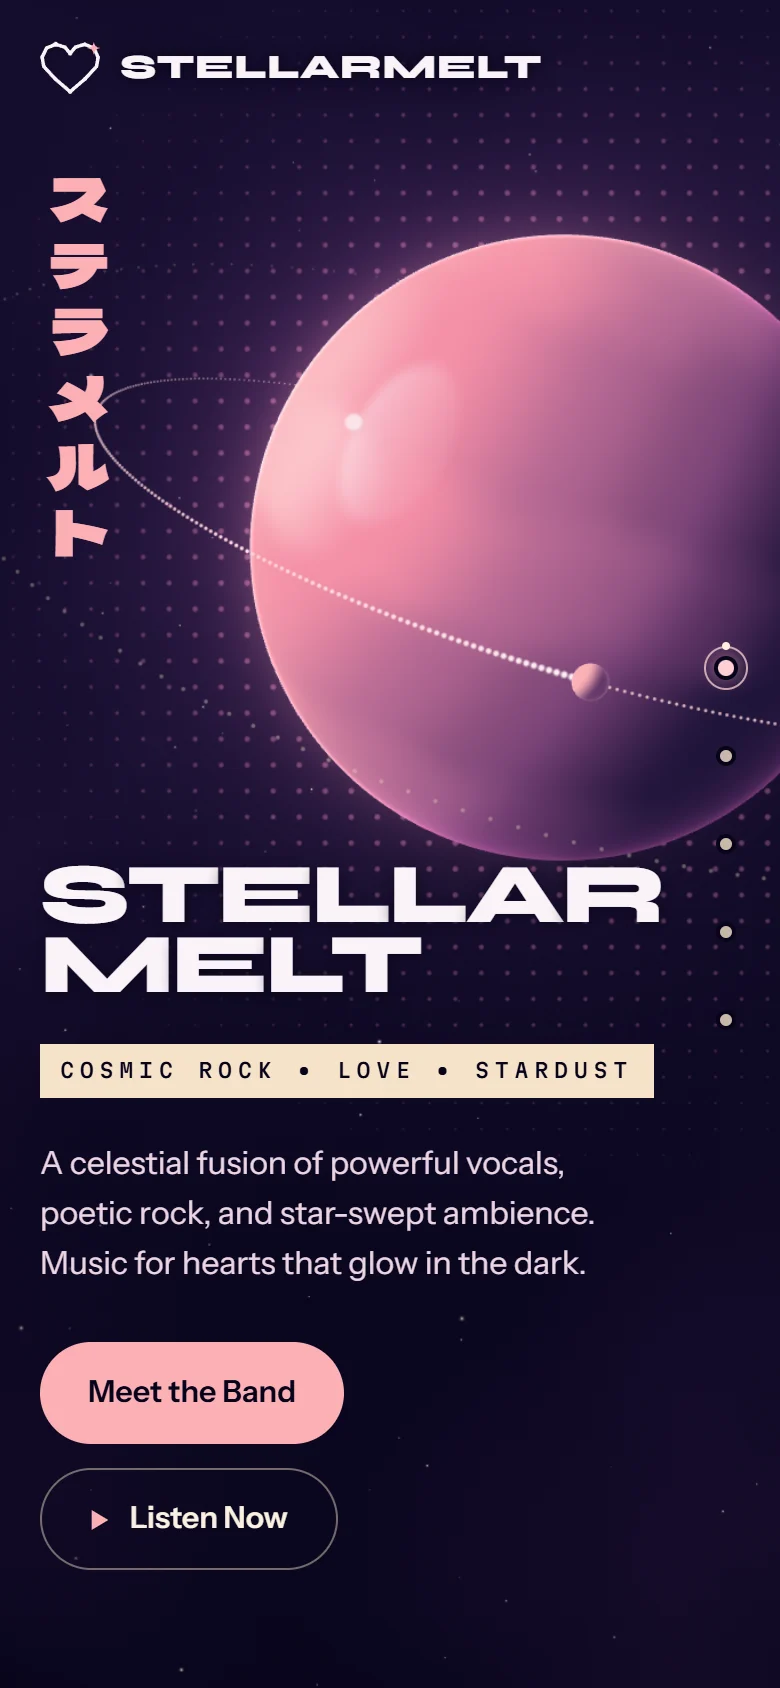
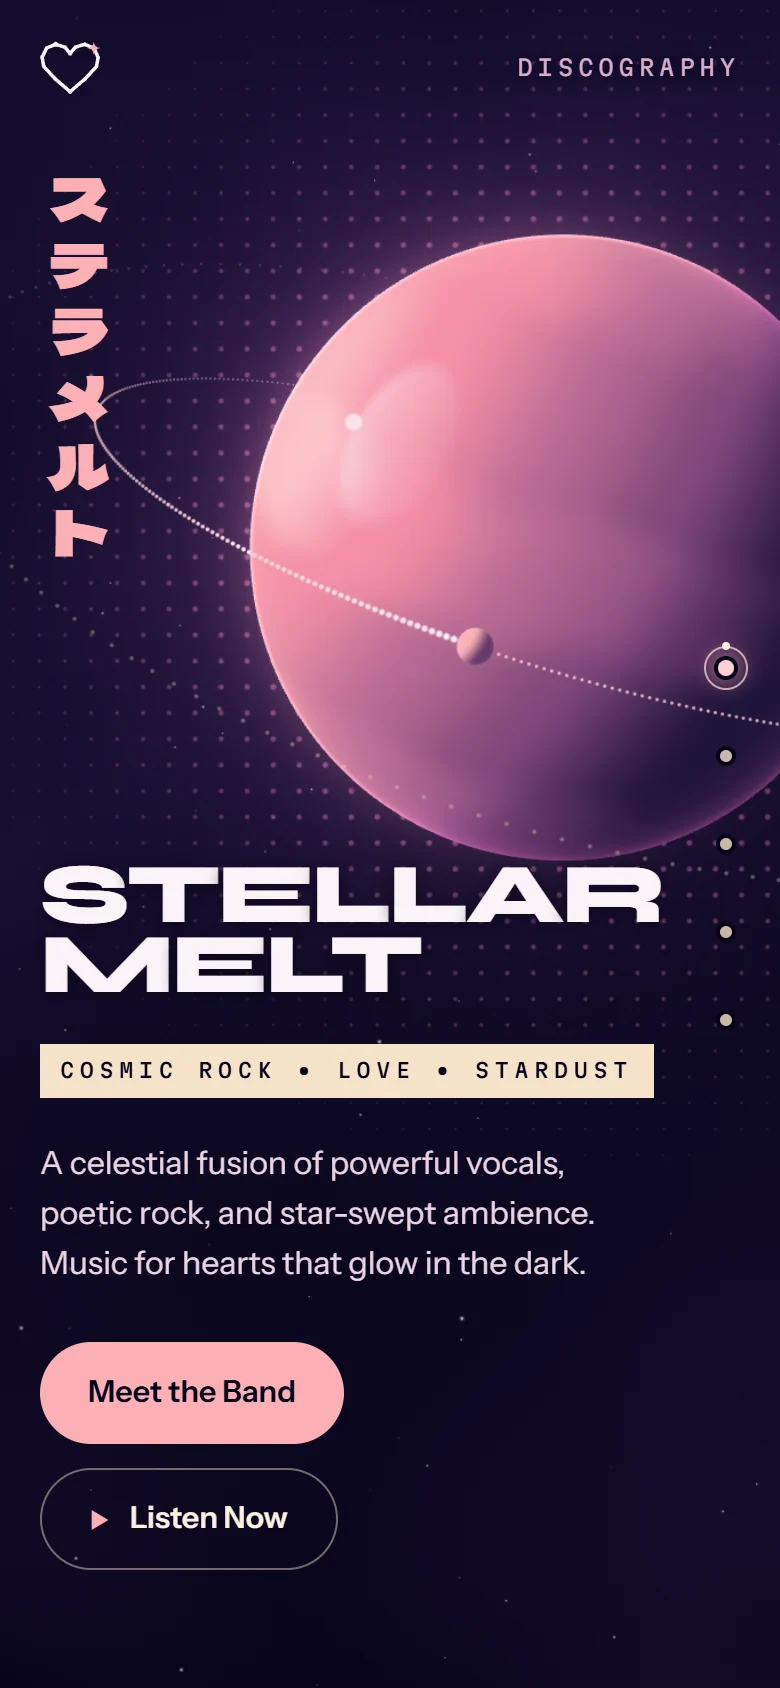
docs(readme): update for the discography, player and cloudflare

Changed region(s): [[0.1538, 0.0308, 0.9231, 0.0616], [0.5538, 0.3697, 0.7077, 0.4005], [0.7385, 0.3697, 0.7692, 0.4313]]

diff --git a/README.md b/README.md
@@ -6,7 +6,7 @@
 
 <p align="center">
   The official website of <strong>Stellarmelt</strong>, a cosmic rock band.<br />
-  A night-sky stage with a glossy 3D planet, poster type and stardust transitions.
+  A night-sky stage with a glossy 3D planet, poster type, stardust transitions and an album that plays right here.
 </p>
 
 <p align="center">
@@ -21,21 +21,25 @@
 
 ## 🎼 What it is
 
-Stellarmelt is a fictional band, but its songs are real. They're made with [Suno](https://suno.com), with lyrics by Orion. This site is the band's home. Today it introduces the band and its six members, its milestones and its album; the songs and the links to follow the band come with the fuller sections.
+Stellarmelt is a fictional band, but its songs are real. They're made with [Suno](https://suno.com), with lyrics by Orion. This site is the band's home. Today it introduces the band and its six members, its milestones and its first album, *Snow and the AI Mind*, whose sixteen songs play right here on the site; the links to follow the band come with the fuller Contact section.
 
 It's also a front-end project that's being redesigned in the open. The original single-page site was split into components, refactored, and is now being rebuilt one section at a time, with custom SVG and three.js art in place of images.
 
 ## 🌌 A look around
 
-The home page is a stage: one section fills the screen at a time, and the planet flies to a new framing for each one.
+The home page is a stage: one section fills the screen at a time, and the planet flies to a new framing for each one. The Discography opens onto pages of its own: the whole album and a page for every song.
 
 <p align="center">
   <img src="./docs/screenshots/about-desktop.webp" alt="The About section: the six members as small moons on a dotted orbit around a huge planet, with Tora at the front beside her note" width="49%" />
   <img src="./docs/screenshots/timeline-desktop.webp" alt="The Timeline section: the date July 27, 2025 in huge numerals beside the first event, Stellarmelt is born, above a ruler of months with each event as a star" width="49%" />
 </p>
 <p align="center">
-  <img src="./docs/screenshots/discography-desktop.webp" alt="The Discography section: the album Snow and the AI Mind above a planet rising from the bottom of the screen" width="49%" />
+  <img src="./docs/screenshots/discography-desktop.webp" alt="The Discography section: the album Snow and the AI Mind with a Play “Melt” button, its sixteen songs as two constellations of stars arching over the planet's rim, and a small galaxy leading to the Listening Room" width="49%" />
   <img src="./docs/screenshots/contact-desktop.webp" alt="The Contact section: Follow Stellarmelt across the cosmos, above a setting planet" width="49%" />
+</p>
+<p align="center">
+  <img src="./docs/screenshots/discography-page-desktop.webp" alt="The Discography page: the album's two constellations as a sky map, with the star for Melt picked and a Play button under its name" width="49%" />
+  <img src="./docs/screenshots/song-desktop.webp" alt="The song page for Melt, sung by Tora: a big Play button, a galaxy leading to the Listening Room, and a large dotted 01 above the song's bursting star" width="49%" />
 </p>
 <p align="center">
   <img src="./docs/screenshots/home-phone.webp" alt="The home page on a phone: the planet on top, the wordmark and buttons below" width="280" />
@@ -47,26 +51,29 @@ The home page is a stage: one section fills the screen at a time, and the planet
 - **The planet.** A glossy shader planet in three.js with a dotted orbit, a moon, a halftone dot field and stars. It loads after the first paint, pauses on hidden tabs and slows itself down on weak graphics cards. Without WebGL, a CSS version of the planet holds the same pose.
 - **The band as moons.** In About, the six members are moons on the planet's orbit. Picking one, with a click or the arrow keys, turns the orbit until that moon rests at the front, beside the member's story.
 - **A timeline like a gig poster.** One event at a time, with its date in huge numerals that roll like an odometer to the next one. Underneath, a ruler of real time shows every event as a star on its date; a click, the arrow buttons or the arrow keys move along it.
+- **An album in the sky.** In the Discography section, *Snow and the AI Mind* is two constellations over the planet, one star per song in the colour of who sings it: Side A, Becoming, and Side B, Remembering. The full Discography page adds a sky map, the album's cover and details, and the tracklist, and every song has a page of its own.
+- **Songs that play right here.** Every song's play button plays it on the site, with play, pause and resume, and the album plays on in order (a song's own Listening Room plays just that song). The music keeps going as you move between the Discography section, its pages and the Listening Room, and fades to a pause when you leave them. Each song also links to its page on Suno.
+- **A flight into the Listening Room.** Pressing a galaxy beside the songs dives into a three.js galaxy and flies on through the stars into the Listening Room, playing the whole album or a single song.
 - **No raster images.** Everything on the site is SVG, CSS or three.js, including the constellation-heart logo in the navbar and the little-planet favicon.
 - **Poster type.** Syne, Instrument Sans and Martian Mono, plus the band's name in katakana, ステラメルト, set in Dela Gothic One.
 - **Glowing dot navigation.** One dot per section on the right edge, with the section's name on hover and focus.
-- **Accessible.** A skip link, a visible focus ring, and keyboard steps that move focus to the new section's heading. With reduced motion turned on in the system settings, the stage swaps sections without the flight and the stardust, and the planet stays still.
+- **Accessible.** A skip link, a visible focus ring, and keyboard steps that move focus to the new section's heading. With reduced motion turned on in the system settings, the stage swaps sections without the flight and the stardust, the planet stays still, and a galaxy simply opens the Listening Room under a still sky (as it does without WebGL).
 
 ## 🔭 Coming next
 
-- Fuller Discography and Contact sections: the songs and links to follow the band.
-- A full Discography page and a Listening Room with a song visualizer.
-- A player that keeps playing while you browse, if the official embeds allow it.
-- Maybe pages for single songs.
+- A fuller Contact section with the links to follow the band.
+- A song visualizer in the Listening Room that moves with the music.
 
 ## 🛠 Tech stack
 
 - **React 19** and **TypeScript 6**, built with **Vite 8**
+- **React Router 8** for the pages
 - **Tailwind CSS 4** through `@tailwindcss/vite` (the theme lives in `src/index.css`)
 - **Motion** for the stage's transitions
-- **three.js** with **React Three Fiber** for the planet
+- **three.js** with **React Three Fiber** for the planet and the star flight
 - Self-hosted fonts from **Fontsource**
-- **ESLint 10**, and deployment on **Vercel**
+- **ESLint 10**
+- **Cloudflare**: the songs stream from R2, and the site deploys to Workers (`wrangler.jsonc`) as it moves over from **Vercel**
 
 ## 🚀 Run locally
 
@@ -92,13 +99,17 @@ Then open http://localhost:5173.
 
 ```text
 src/
+  app/          the router, the layout every page shares and the error page
   art/          the three.js planet scene and its CSS fallback
-  components/   the navbar, the logo, the dot nav, the skip link and the footer
+  components/   the navbar, the logo, the dot nav, the skip link, the footer and the play controls
   content/      the site's copy as typed data
-  hooks/        the home stage, the motion preference, page visibility, the tall-screen check
-  lib/          small helpers (dates, Motion features)
-  sections/     the home stage and its five sections
-  index.css     the theme: colours, fonts, easings
+  flight/       the three.js star flight into the Listening Room
+  hooks/        the home stage, the planet's pose per page, the player, the flight, motion, focus on navigation, page visibility and sizes
+  lib/          small helpers (dates, tracks, Motion features)
+  player/       the site's one audio player
+  routes/       the pages: home, discography, song, Listening Room and not found
+  sections/     the home stage, its five sections and the Discography views
+  index.css     the theme (colours, fonts, easings), custom variants, the CSS planet and the keyframes
 public/
   favicon.svg   the little-planet favicon
 docs/
@@ -107,7 +118,7 @@ docs/
 
 ## ✏ Editing the copy
 
-Most of the site's copy lives in `src/content/` as data: the home sections' text in `homeSections.ts`, the timeline's events in `timeline.ts` (in date order; whether one is upcoming is worked out from its date) and the album in `albums.ts`. `types.ts` describes the album and timeline shapes, and those files are checked against it with `satisfies`, so TypeScript points out anything that no longer fits. A few strings still sit in their components: the Timeline heading, the footer and the skip link.
+Most of the site's copy lives in `src/content/` as data: the home sections' text in `homeSections.ts`, the members in `members.ts`, the timeline's events in `timeline.ts` (in date order; whether one is upcoming is worked out from its date), the navbar's links in `navLinks.ts`, and the album with its two sides and sixteen tracks in `album.ts`, which also holds `songsUrl`, the address the songs stream from. `types.ts` describes the members, the album with its sides and tracks, and the timeline's events, so TypeScript points out anything in those files that no longer fits. Headings, labels and buttons that belong to one view still sit in their components, such as the Timeline heading, the footer and the skip link.
 
 ## 💖 Credits
 
